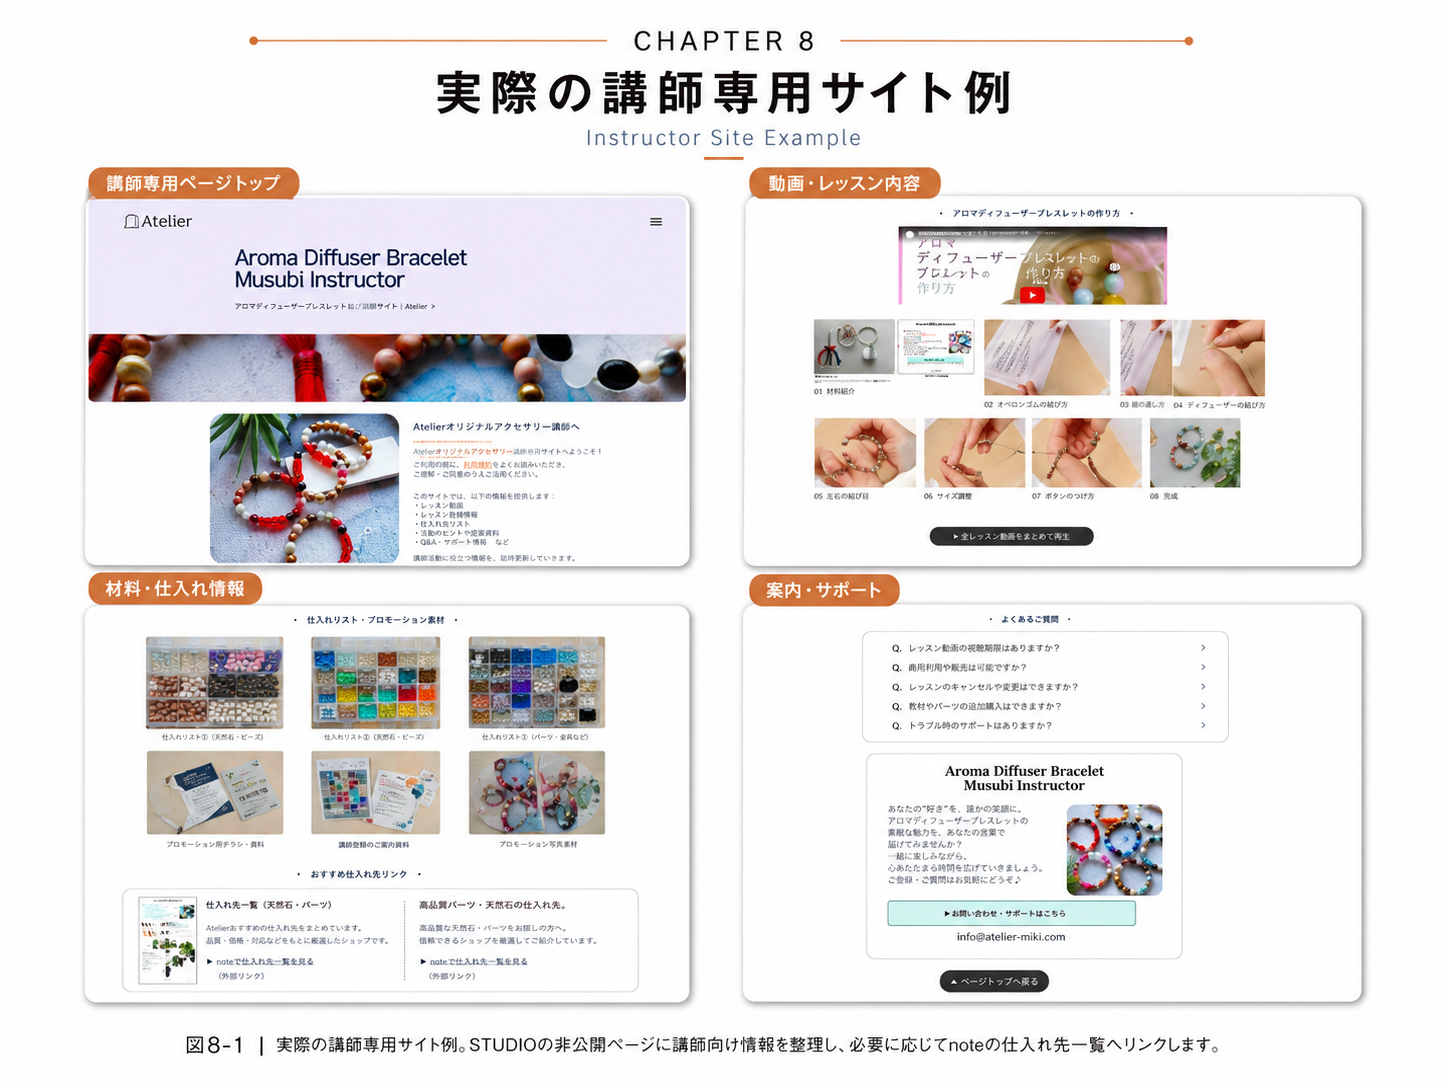
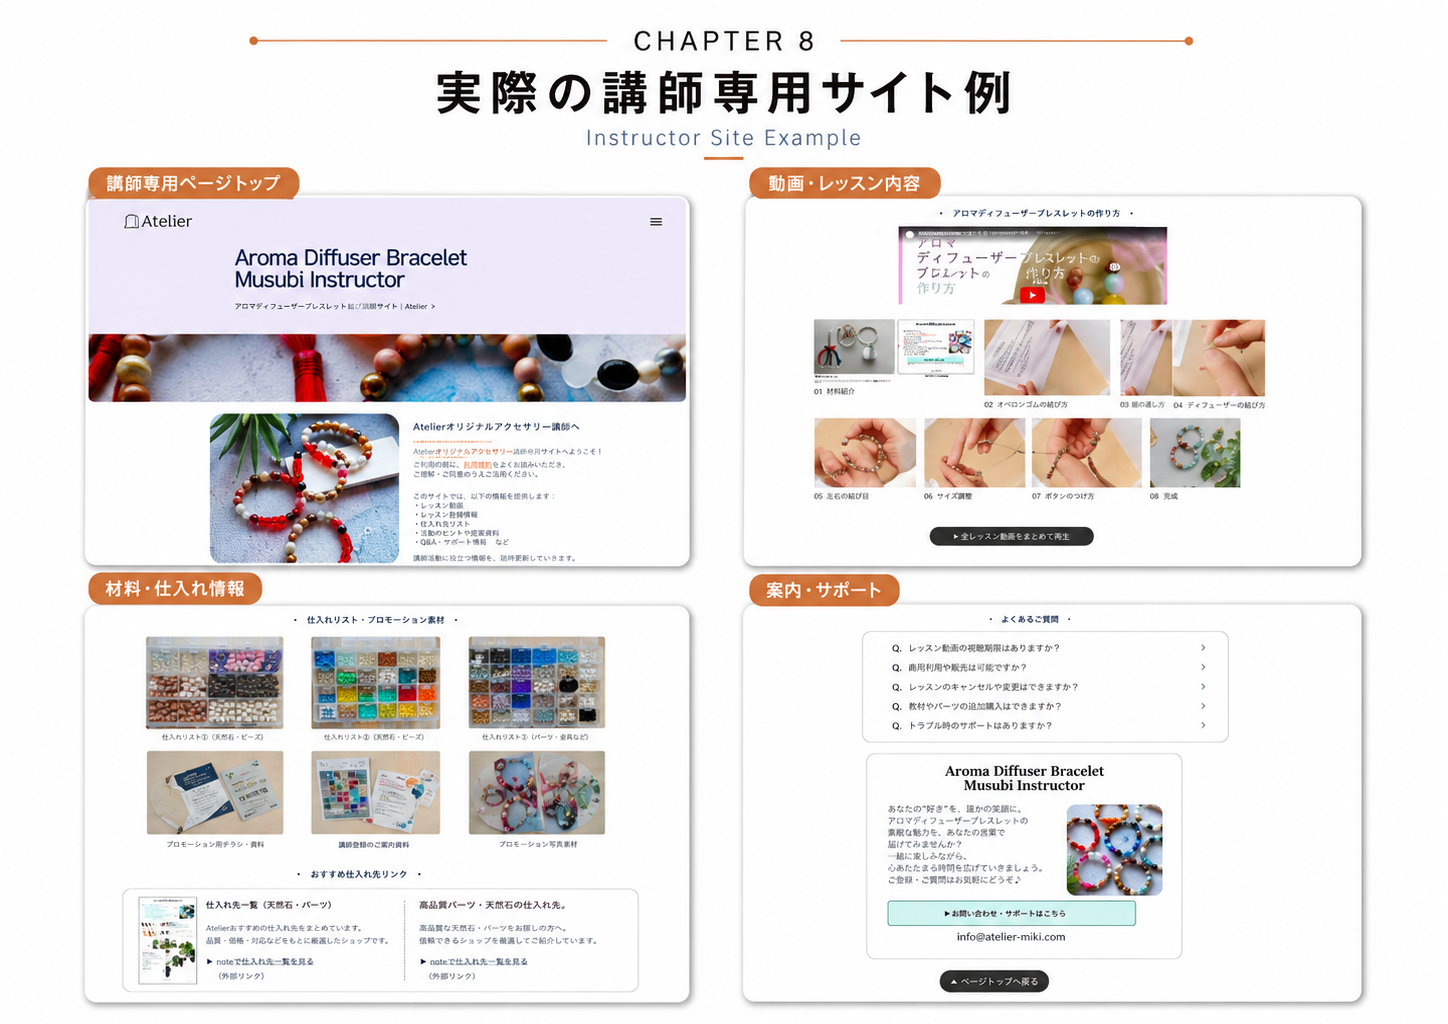
第8章 図番号を整理(図8-1役割分担/図8-2サイト例)、サイト例の旧キャプション帯を除去しHTMLキャプション化

Changed region(s): [[0.0622, 0.0312, 0.9634, 1.0], [0.4351, 0.1875, 0.4662, 0.2188]]

diff --git a/data.js b/data.js
@@ -1190,7 +1190,8 @@ window.SITE_DATA = {
 <h3>◆ 8-3　STUDIOの講師専用ページ構成</h3>
 <p>MUSUBIでは「講座ごとの専用ページ」と「全講師共通ページ」の2種類を作成しています。受講した講座の専用ページには講座固有の情報、共通ページには全講師が使う情報をまとめています。</p>
 <figure class="figure-wide">
-<img src="images/ch08-instructor-site-example.png" alt="図8-2 実際の講師専用サイト例。STUDIOの非公開ページに講師専用ページトップ・動画レッスン内容・材料仕入れ情報・案内サポートを整理し、必要に応じてnoteの仕入れ先一覧へリンクする構成">
+<img src="images/ch08-instructor-site-example.png" alt="実際の講師専用サイト例。STUDIOの非公開ページに講師専用ページトップ・動画レッスン内容・材料仕入れ情報・案内サポートを整理し、必要に応じてnoteの仕入れ先一覧へリンクする構成">
+<figcaption>図8-2｜実際の講師専用サイト例。STUDIOの非公開ページに講師向け情報を整理し、必要に応じてnoteの仕入れ先一覧へリンクします。</figcaption>
 </figure>
 <p><strong>▶ ページ①　講座ごとの専用ページ(例：CACM専用ページ)</strong></p>
 <table class="tbl">